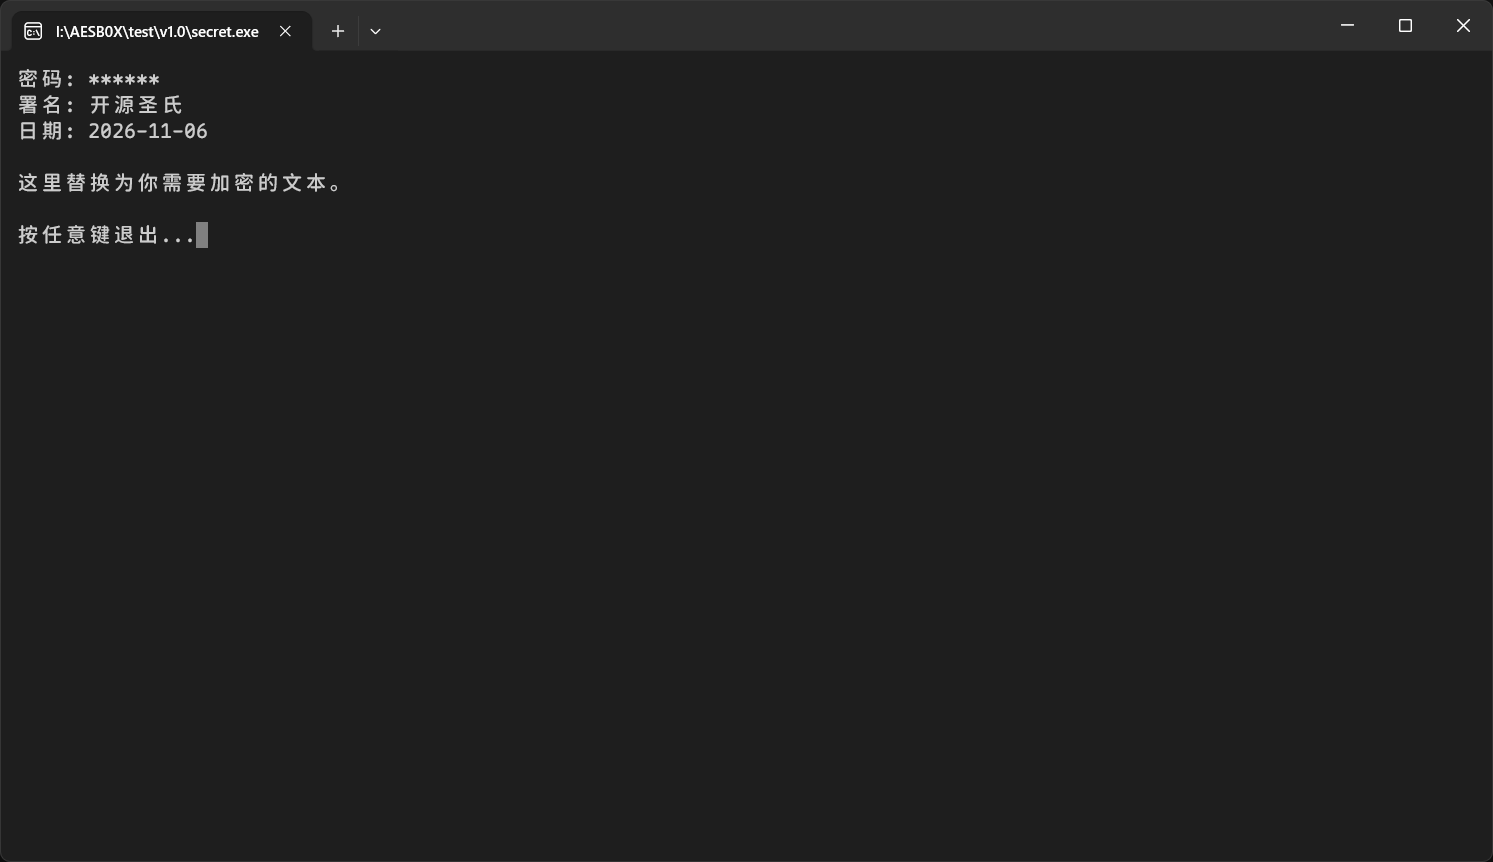
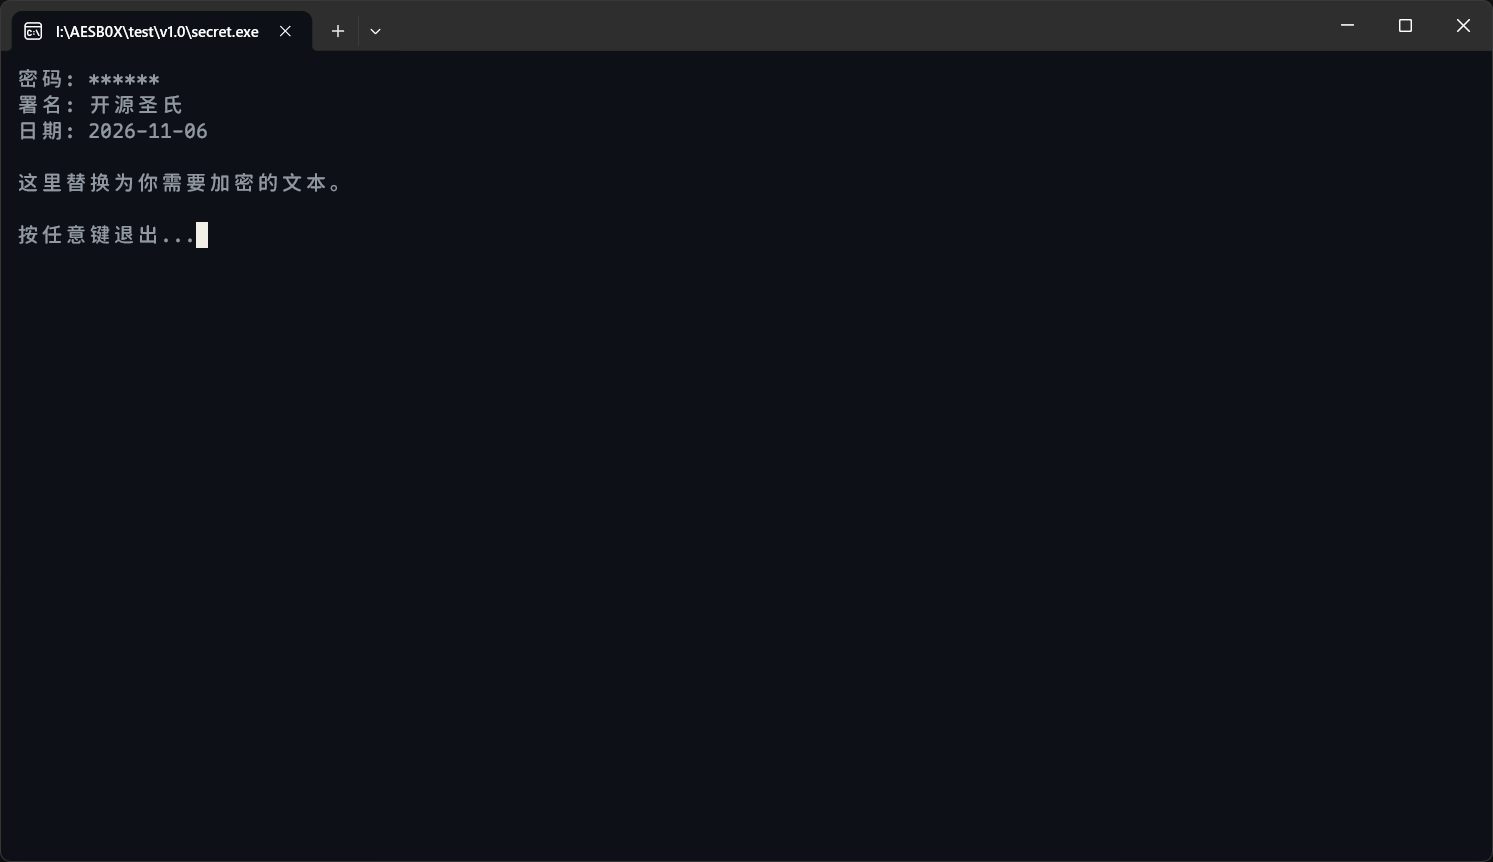
Refresh the screenshot
Update the usage comment to clarify that input.txt is read, and refresh the screenshot.

Changed region(s): [[0.0, 0.0603, 0.2157, 0.3016]]

diff --git a/src/mksecret.c b/src/mksecret.c
@@ -1,5 +1,5 @@
 /* mksecret.c
- * 双击运行: 读 input.txt -> 输入署名 -> 输入密码 -> 生成 secret.exe -> 自动关闭
+ * 双击运行: 读取 input.txt -> 输入署名 -> 输入密码 -> 生成 secret.exe -> 自动关闭
  * 命令行  : mksecret [input.txt] [output.exe]
  * 编译    : tcc mksecret.c -o mksecret.exe   (或 gcc)
  * 源文件  : UTF-8 无 BOM 保存
